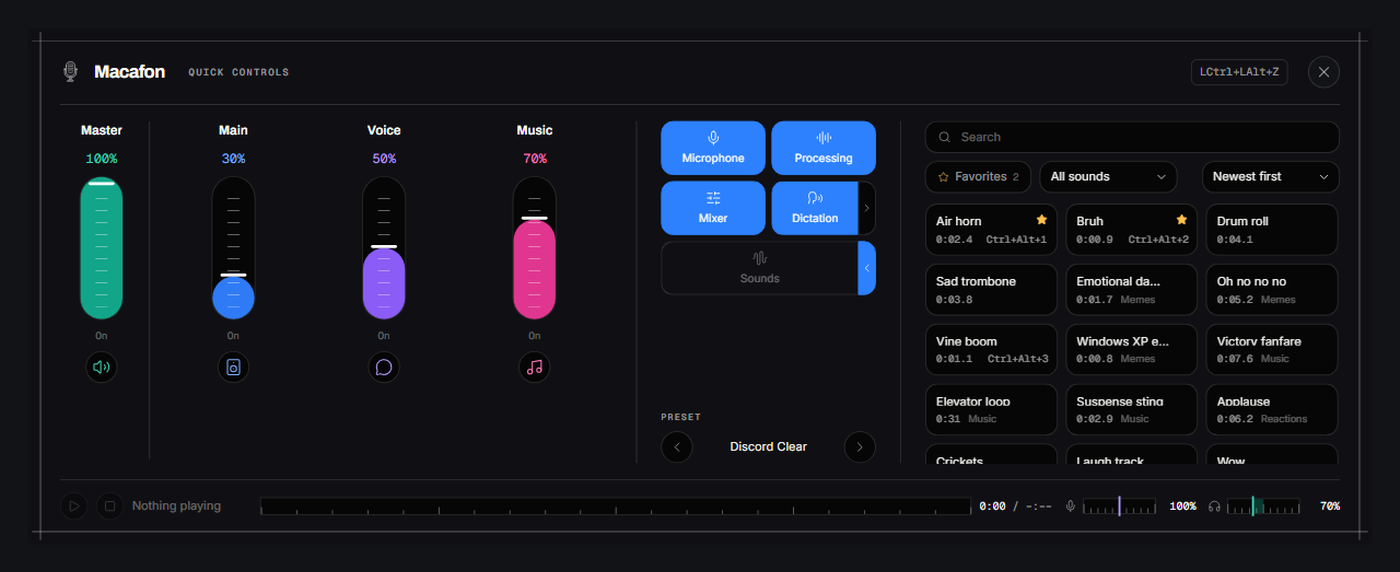
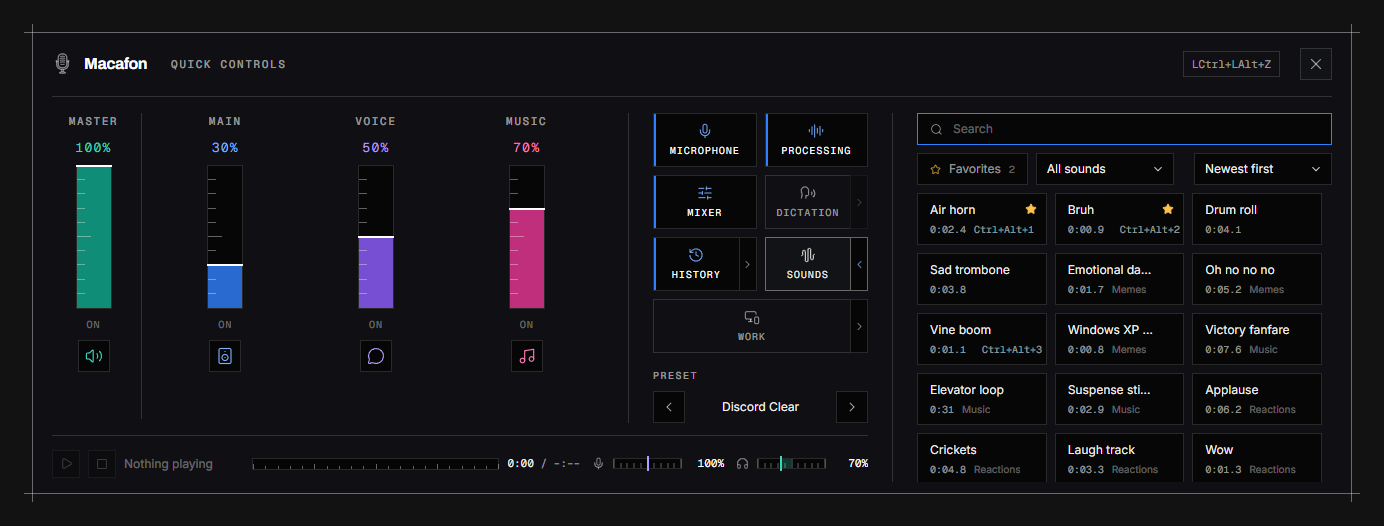
docs: README screenshots of the new look and display profiles

diff --git a/README.md b/README.md
@@ -10,7 +10,7 @@
 </p>
 
 <p align="center">
-  <b>Microphone processing, per-app mixer, SoundDeck and local dictation for Windows 11.</b>
+  <b>Microphone processing, per-app mixer, SoundDeck, local dictation and display profiles for Windows 11.</b>
 </p>
 
 <p align="center">
@@ -18,8 +18,6 @@
   <img alt="Windows 11: working" src="https://img.shields.io/badge/Windows_11-working-success">
   <img alt="Linux: experimental" src="https://img.shields.io/badge/Linux-experimental-orange">
 </p>
-
-![Microphone screen](docs/images/microphone.png)
 
 ## Features
 
@@ -30,6 +28,8 @@ Compressor → De-esser → Limiter and comes out as a virtual microphone for Di
 - Record a clip and switch **Before ⇄ After** to hear every change.
 - AI noise suppression runs locally: *Lite* (RNNoise) or *Studio* (DeepFilterNet 3).
 - Built-in and custom presets, a fallback microphone, per-microphone settings.
+
+![Microphone screen](docs/images/microphone.png)
 
 **Mixer.** Apps appear automatically; drag them between channels (Main, Voice, Music, up to eight) to
 control their volume with one fader. Pick the output device or a priority list for automatic switching.
@@ -73,11 +73,29 @@ downloaded, and your voice and text never leave it. A short guide walks you thro
 
 ![Dictation screen](docs/images/dictation.png)
 
+**Displays.** Save your monitor setups as profiles — "Work" with every screen, "Game" with only the
+main monitor at 165 Hz with HDR, "Movie" with only the TV — and switch between them with one click,
+a hotkey, the tray, the overlay or `macafon ctl display`.
+
+- A profile keeps which monitors are on, the main one, position, resolution, refresh rate, rotation,
+  duplicate or extend, and HDR. Save the current layout in one click, then fine-tune any monitor
+  without recapturing.
+- Monitors are recognized by their EDID, not by port or driver ids, so profiles survive reboots,
+  driver updates and plugging a cable into another port. Missing monitors are skipped and named.
+- Never stuck with a black screen: every layout is validated first, and on a new set of monitors
+  **Keep these display settings?** brings the old layout back after 15 s unless you keep it.
+  `Ctrl+Alt+Shift+F12` turns every monitor on, `Ctrl+Alt+Shift+F11` returns the previous layout.
+- Optionally a profile moves Macafon's sound too — "Movie" plays through the TV.
+- No administrator rights. Profiles change Windows display settings on purpose and stay after
+  Macafon quits.
+
+![Displays screen](docs/images/displays.png)
+
 **Always at hand.** Global hotkeys (push-to-talk, mute, volume, sounds; left and right Ctrl/Alt are
 told apart) work with the window closed and show a small on-screen popup. The tray icon opens a quick
 panel; `LCtrl+LAlt+Z` opens the **quick controls overlay** with volumes, switches, SoundDeck and
-dictation. Choose in Settings what it shows — including an output device switcher and a live
-microphone meter — whether side panels open to the right, left or below, and whether the overlay
+dictation and display profiles. Choose in Settings what it shows — including an output device
+switcher and a live microphone meter — whether side panels open to the right, left or below, and whether the overlay
 stays in place or keeps itself centered. **Doctor** checks your audio setup.
 
 <details>
@@ -86,12 +104,17 @@ stays in place or keeps itself centered. **Doctor** checks your audio setup.
 
 <p align="center">
   <img alt="Quick controls overlay" src="docs/images/hotkey-overlay.png" width="720"><br>
-  <sub><b>Quick controls overlay</b> (<code>LCtrl+LAlt+Z</code>): channel volumes, switches and preset over any app. The flags on Dictation and Sounds open their panels.</sub>
+  <sub><b>Quick controls overlay</b> (<code>LCtrl+LAlt+Z</code>): channel volumes, switches, display profile and preset over any app. The arrows on Dictation, History and Sounds open their panels.</sub>
 </p>
 
 <p align="center">
   <img alt="Overlay with SoundDeck" src="docs/images/hotkey-overlay-sounds.png" width="860"><br>
   <sub><b>Overlay with SoundDeck</b>: search, favorites, categories, a star on every pad and one click to play.</sub>
+</p>
+
+<p align="center">
+  <img alt="Displays: keep these display settings?" src="docs/images/displays-pending.png" width="720"><br>
+  <sub><b>Displays → Keep these display settings?</b>: a new layout reverts by itself unless you keep it.</sub>
 </p>
 
 <p align="center">
@@ -101,7 +124,7 @@ stays in place or keeps itself centered. **Doctor** checks your audio setup.
 
 <p align="center">
   <img alt="Settings: quick controls overlay" src="docs/images/settings.png" width="720"><br>
-  <sub><b>Settings → Quick controls overlay</b>: pick what the overlay shows and where its panels open.</sub>
+  <sub><b>Settings → Quick controls overlay</b>: drag parts to arrange the overlay, or into Hidden to remove them.</sub>
 </p>
 
 <p align="center">
@@ -146,6 +169,8 @@ macafon ctl soundpad list               # SoundDeck
 macafon ctl soundpad play "Memes/airhorn.mp3"
 macafon ctl soundpad stop
 macafon ctl dictation toggle            # on, off, toggle
+macafon ctl display                     # display profiles
+macafon ctl display apply <id>          # also next, revert, all-on, save "Work"
 macafon ctl doctor
 ```
 
@@ -181,7 +206,7 @@ visual language in the [design system](docs/design/design-system.md), architectu
 | `crates/macafon-dsp`, `macafon-studio`, `macafon-engine` | DSP chain, noise suppression, audio engine |
 | `crates/macafon-soundpad` | Sound library, decoding, playback |
 | `crates/macafon-stt`, `apps/macafon-stt` | Dictation engines and the on-demand speech worker |
-| `crates/macafon-backend*` | Windows (WASAPI) and Linux (PipeWire) backends |
+| `crates/macafon-backend*` | Windows (WASAPI, display profiles) and Linux (PipeWire) backends |
 | `crates/macafon-ipc`, `macafon-config`, `macafon-apps` | Protocol, settings, app rules |
 
 ## Privacy and license
